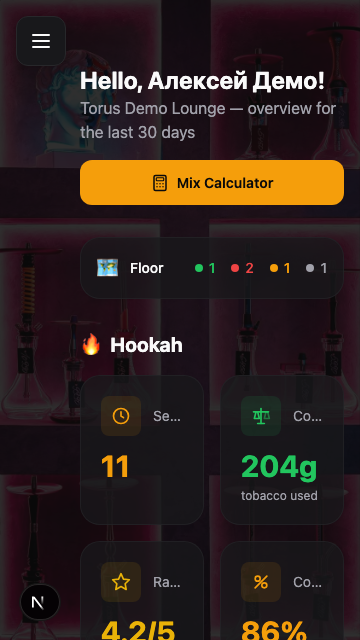
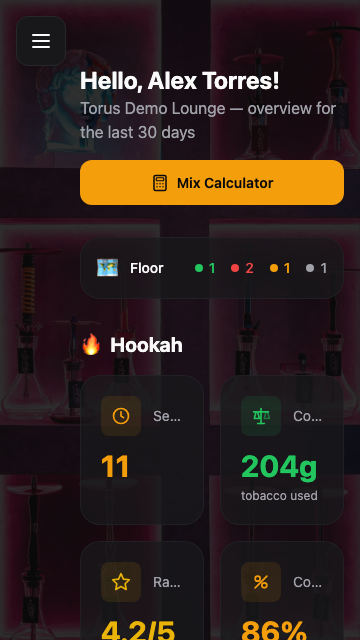
fix: Lighthouse audit fixes — accessibility 100, pricing double ≈, demo name
- CookieConsent: text-white → text-black on amber button (WCAG contrast)
- Landing: add <main> landmark, fix heading order h4→h3, step number contrast
- Landing: use Next.js Image with priority for dashboard preview, video preload/poster
- PricingCard: remove duplicate ≈ (i18n function already includes it)
- Demo account: rename "Алексей Демо" → "Alex Torres"
- Re-capture dashboard preview and PWA screenshots with updated name

Changed region(s): [[0.4583, 0.0938, 0.9167, 0.1562], [0.0611, 0.9062, 0.1528, 0.9688]]

diff --git a/src/app/page.tsx b/src/app/page.tsx
@@ -1,6 +1,7 @@
 'use client'
 
 import Link from 'next/link'
+import Image from 'next/image'
 import { useAuth } from '@/lib/AuthContext'
 import { useTranslation } from '@/lib/i18n'
 import {
@@ -92,7 +93,7 @@ export default function LandingPage() {
         <div className="max-w-7xl mx-auto px-4 h-16 flex items-center justify-between">
           <Link href="/" className="flex items-center gap-2">
             <div className="w-9 h-9 rounded-xl overflow-hidden">
-              <video autoPlay loop muted playsInline className="w-full h-full object-cover">
+              <video autoPlay loop muted playsInline preload="metadata" poster="/images/torus-logo.png" className="w-full h-full object-cover">
                 <source src="/images/logo-animated.mp4" type="video/mp4" />
               </video>
             </div>
@@ -133,6 +134,7 @@ export default function LandingPage() {
         </div>
       </header>
 
+      <main>
       {/* Hero Section */}
       <section className="relative overflow-hidden">
         <div className="absolute inset-0 bg-gradient-to-br from-[var(--color-primary)]/10 via-transparent to-[var(--color-warning)]/10" />
@@ -178,23 +180,13 @@ export default function LandingPage() {
               <div className="w-3 h-3 rounded-full bg-green-500/80" />
             </div>
             <div className="pt-8 bg-[var(--color-bg)]">
-              <img
-                src="/images/dashboard-preview.png"
+              <Image
+                src="/images/dashboard-preview.jpg"
                 alt="Hookah Torus Dashboard"
-                className="w-full"
-                onError={(e) => {
-                  // Fallback gradient if image doesn't exist
-                  const target = e.target as HTMLImageElement
-                  target.style.display = 'none'
-                  target.parentElement!.innerHTML += `
-                    <div class="aspect-video bg-gradient-to-br from-[var(--color-primary)]/20 to-[var(--color-surface)] flex items-center justify-center">
-                      <div class="text-center">
-                        <div class="text-6xl mb-4">📊</div>
-                        <p class="text-[var(--color-textMuted)]">Dashboard Preview</p>
-                      </div>
-                    </div>
-                  `
-                }}
+                width={1920}
+                height={1080}
+                priority
+                className="w-full h-auto"
               />
             </div>
           </div>
@@ -268,7 +260,7 @@ export default function LandingPage() {
           <div className="grid md:grid-cols-3 gap-8">
             {howItWorks.map((item) => (
               <div key={item.step} className="text-center">
-                <div className="w-16 h-16 mx-auto mb-4 rounded-full bg-[var(--color-primary)] flex items-center justify-center text-2xl font-bold text-white">
+                <div className="w-16 h-16 mx-auto mb-4 rounded-full bg-[var(--color-primary)] flex items-center justify-center text-2xl font-bold text-black">
                   {item.step}
                 </div>
                 <h3 className="text-xl font-semibold mb-2">{item.title}</h3>
@@ -312,6 +304,8 @@ export default function LandingPage() {
         </div>
       </section>
 
+      </main>
+
       {/* Footer */}
       <footer className="py-12 px-4 border-t border-[var(--color-border)]">
         <div className="max-w-7xl mx-auto">
@@ -319,7 +313,7 @@ export default function LandingPage() {
             <div>
               <div className="flex items-center gap-2 mb-4">
                 <div className="w-8 h-8 rounded-lg overflow-hidden">
-                  <video autoPlay loop muted playsInline className="w-full h-full object-cover">
+                  <video autoPlay loop muted playsInline preload="none" poster="/images/torus-logo.png" className="w-full h-full object-cover">
                     <source src="/images/logo-animated.mp4" type="video/mp4" />
                   </video>
                 </div>
@@ -331,7 +325,7 @@ export default function LandingPage() {
             </div>
 
             <div>
-              <h4 className="font-semibold mb-4">{t.footerProduct}</h4>
+              <h3 className="font-semibold mb-4 text-base">{t.footerProduct}</h3>
               <ul className="space-y-2 text-sm text-[var(--color-textMuted)]">
                 <li><Link href="/mix" className="hover:text-[var(--color-text)]">{t.footerMixCalculator}</Link></li>
                 <li><Link href="/recommend" className="hover:text-[var(--color-text)]">{t.footerAiRecommendations}</Link></li>
@@ -340,7 +334,7 @@ export default function LandingPage() {
             </div>
 
             <div>
-              <h4 className="font-semibold mb-4">{t.footerLegal}</h4>
+              <h3 className="font-semibold mb-4 text-base">{t.footerLegal}</h3>
               <ul className="space-y-2 text-sm text-[var(--color-textMuted)]">
                 <li><Link href="/legal/terms" className="hover:text-[var(--color-text)]">{t.footerTerms}</Link></li>
                 <li><Link href="/legal/privacy" className="hover:text-[var(--color-text)]">{t.footerPrivacy}</Link></li>

diff --git a/src/app/legal/layout.tsx b/src/app/legal/layout.tsx
@@ -16,7 +16,7 @@ export default function LegalLayout({
         <div className="max-w-4xl mx-auto px-4 h-16 flex items-center justify-between">
           <Link href="/" className="flex items-center gap-2">
             <div className="w-8 h-8 rounded-lg overflow-hidden">
-              <video autoPlay loop muted playsInline className="w-full h-full object-cover">
+              <video autoPlay loop muted playsInline preload="metadata" poster="/images/torus-logo.png" className="w-full h-full object-cover">
                 <source src="/images/logo-animated.mp4" type="video/mp4" />
               </video>
             </div>

diff --git a/src/components/CookieConsent.tsx b/src/components/CookieConsent.tsx
@@ -47,7 +47,7 @@ export default function CookieConsent() {
           </button>
           <button
             onClick={accept}
-            className="px-4 py-2 text-sm rounded-xl bg-[var(--color-primary)] text-white font-medium hover:opacity-90 transition-opacity"
+            className="px-4 py-2 text-sm rounded-xl bg-[var(--color-primary)] text-black font-medium hover:opacity-90 transition-opacity"
           >
             {tc.accept}
           </button>

diff --git a/src/components/pricing/PricingCard.tsx b/src/components/pricing/PricingCard.tsx
@@ -67,7 +67,7 @@ export function PricingCard({
           <span className="text-4xl font-bold">{price}</span>
           {monthlyPrice && (
             <span className="text-sm text-[var(--color-textMuted)] mt-1">
-              ≈ {monthlyPrice}
+              {monthlyPrice}
             </span>
           )}
         </div>
